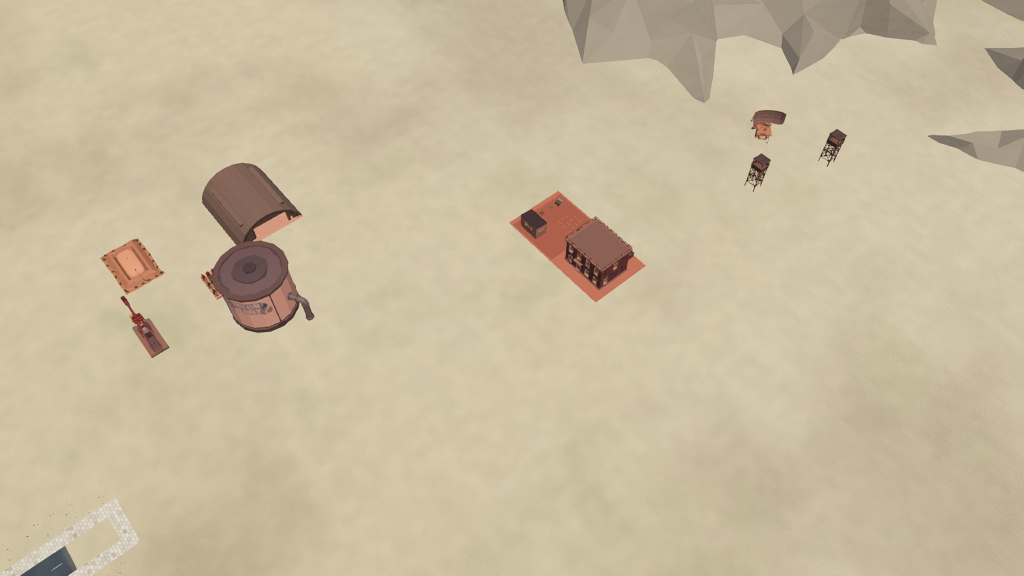
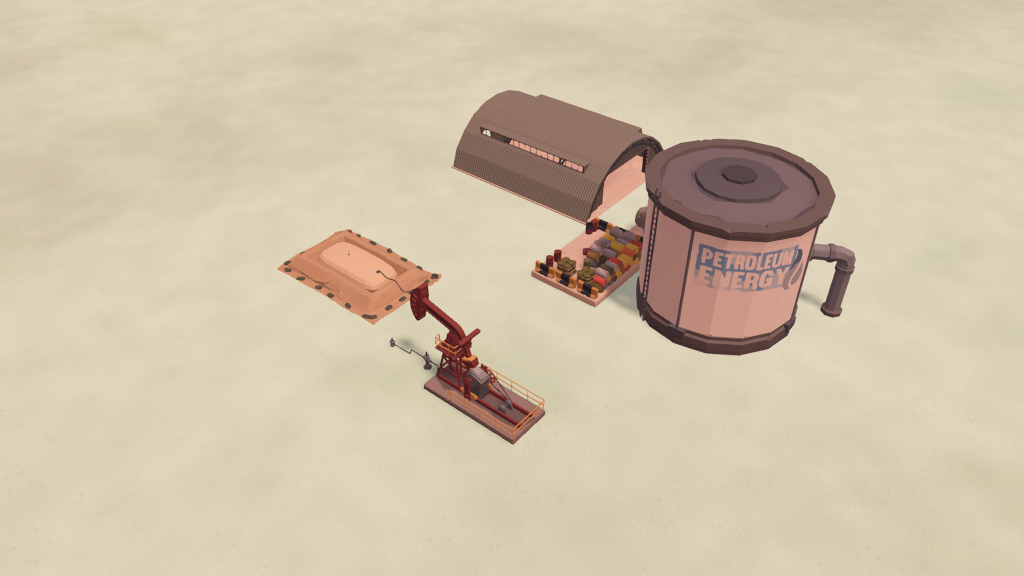
Reframe S002/S003/S025 cards as low close obliques on the tightest enemy structure group, longer settle, DB-plate grade; reset pinned camera matrices

diff --git a/Assets/Game/Scripts/Editor/SkirmishLibrary/SkirmishLibraryPlayCapture.cs b/Assets/Game/Scripts/Editor/SkirmishLibrary/SkirmishLibraryPlayCapture.cs
@@ -40,6 +40,10 @@ namespace Game.Editor
         private const int Supersample = 2;
         private const double ScenarioTimeoutSeconds = 240d;
         private const double SettleSeconds = 4d;
+        private const double CloseUpSettleSeconds = 12d;
+
+        // Cards reframed as a low, close oblique on the enemy base with its defenders in view.
+        private static bool IsCloseUp(string id) => id == "S002" || id == "S003" || id == "S025";
 
         private static int stage;
         private static double deadline;
@@ -232,7 +236,9 @@ namespace Game.Editor
                 {
                     // Preview cards show the authored enemy base, so lift the player's fog on it.
                     RevealSessionContacts(em);
-                    if (now - readyAt < SettleSeconds || ShaderUtil.anythingCompiling)
+                    // Close-up cards show the defenders, so let enemy units spawn and settle longer.
+                    double settle = IsCloseUp(id) ? CloseUpSettleSeconds : SettleSeconds;
+                    if (now - readyAt < settle || ShaderUtil.anythingCompiling)
                         return;
                     // Wait (bounded) for the session's structure visuals to finish binding.
                     if (VisualPending(em) && now - readyAt < SettleSeconds + 40d)
@@ -374,6 +380,22 @@ namespace Game.Editor
             return result.Count > 0 ? result : points;
         }
 
+        private const float KnotRadius = 55f;
+
+        private static Vector3 BestStructureKnot(List<Vector3> structures, Vector3 fallback)
+        {
+            Vector3 best = fallback;
+            int bestCount = -1;
+            foreach (Vector3 c in structures)
+            {
+                int n = 0;
+                foreach (Vector3 q in structures)
+                    if (new Vector2(q.x - c.x, q.z - c.z).magnitude <= KnotRadius) n++;
+                if (n > bestCount) { bestCount = n; best = c; }
+            }
+            return best;
+        }
+
         private static void Capture(string id, List<Vector3> enemyBuildings, List<Vector3> player, List<Vector3> enemyAll)
         {
             List<Vector3> enemySource = enemyBuildings.Count > 0 ? enemyBuildings : enemyAll;
@@ -387,10 +409,20 @@ namespace Game.Editor
             foreach (Vector3 p in enemyCluster) bounds.Encapsulate(p);
             float separation = new Vector2(enemy.x - home.x, enemy.z - home.z).magnitude;
             // S001 and S025 start close to the enemy; framing both bases made the enemy base tiny, so frame the enemy base alone.
-            bool enemyOnly = id == "S001" || id == "S025";
+            bool closeUp = IsCloseUp(id);
+            bool enemyOnly = closeUp || id == "S001";
             bool both = !enemyOnly && separation < 380f;
-            if (both)
-                foreach (Vector3 p in playerCluster) bounds.Encapsulate(p);
+            int closeUpCount = 0;
+            if (closeUp)
+            {
+                // These bases are sparse, so frame one tight group of visible structures (with any units beside it)
+                // instead of the whole spread. S003 keeps its own low side angle (-95 deg) so it never repeats S002's view.
+                Vector3 knot = BestStructureKnot(enemySource, enemy);
+                bounds = new Bounds(knot, Vector3.one * 16f);
+                foreach (Vector3 q in enemySource)
+                    if (new Vector2(q.x - knot.x, q.z - knot.z).magnitude <= KnotRadius) { bounds.Encapsulate(q); closeUpCount++; }
+                enemy = new Vector3(bounds.center.x, enemy.y, bounds.center.z);
+            }
 
             Vector3 back = home - enemy;
             back.y = 0f;
@@ -398,14 +430,16 @@ namespace Game.Editor
             back.Normalize();
             // S002 and S003 share the Desert Base enemy pads; give S003 (Field) its own low side angle.
             bool fieldAngle = id == "S003";
-            back = Quaternion.AngleAxis(fieldAngle ? -95f : 25f, Vector3.up) * back;
+            back = Quaternion.AngleAxis(fieldAngle ? -95f : id == "S002" ? 40f : 25f, Vector3.up) * back;
             const float fov = 40f;
-            float pitch = fieldAngle ? 36f : 55f;
+            float pitch = id == "S002" ? 38f : id == "S025" ? 36f : fieldAngle ? 35f : 55f;
             float aspect = CardWidth / (float)CardHeight;
             Vector3 size = bounds.size;
             float radius = Mathf.Max(size.x, size.z) * 0.5f + 25f;
             float fit = radius / Mathf.Tan(fov * 0.5f * Mathf.Deg2Rad) / Mathf.Min(1f, aspect * 0.75f);
-            float distance = Mathf.Clamp(fit * (enemyOnly ? 0.5f : 0.62f), enemyOnly ? 90f : 120f, 420f);
+            float distance = closeUp
+                ? Mathf.Clamp((Mathf.Max(size.x, size.z) * 0.5f + 10f) * 0.85f / Mathf.Tan(fov * 0.5f * Mathf.Deg2Rad), 40f, 95f)
+                : Mathf.Clamp(fit * (enemyOnly ? 0.5f : 0.62f), enemyOnly ? 90f : 120f, 420f);
             Vector3 look = both ? Vector3.Lerp(bounds.center, enemy, 0.35f) : enemyOnly ? bounds.center : enemy;
             look.y = Mathf.Min(enemy.y, home.y);
             Vector3 dir = (-back * Mathf.Cos(pitch * Mathf.Deg2Rad) + Vector3.down * Mathf.Sin(pitch * Mathf.Deg2Rad)).normalized;
@@ -449,6 +483,12 @@ namespace Game.Editor
                 camera.allowHDR = true;
                 camera.aspect = aspect;
                 camera.transform.SetPositionAndRotation(position, Quaternion.LookRotation(dir, Vector3.up));
+                // Match camera controllers can pin explicit view/projection matrices; drop them so the transform above is used.
+                camera.ResetWorldToCameraMatrix();
+                camera.ResetProjectionMatrix();
+                camera.ResetCullingMatrix();
+                Debug.Log("[SkirmishLibraryPlayCapture] camera=" + camera.name + " pos=" + Fmt(camera.transform.position) + " y=" + camera.transform.position.y.ToString("0", CultureInfo.InvariantCulture) +
+                          " viewPos=" + Fmt(camera.cameraToWorldMatrix.GetColumn(3)) + " stack=" + Camera.allCamerasCount);
                 Type dataType = Type.GetType(
                     "UnityEngine.Rendering.Universal.UniversalAdditionalCameraData, Unity.RenderPipelines.Universal.Runtime");
                 if (dataType != null)
@@ -457,16 +497,26 @@ namespace Game.Editor
                     dataType.GetProperty("renderPostProcessing")?.SetValue(data, true);
                 }
 
+                // Close-up cards use the same grade as the DB plate (daylight fill + Military_Demo_Gameplay volume).
+                GameObject gradeVolume = null;
+                if (closeUp)
+                {
+                    SkirmishS004CampaignLighting.ApplyDaylightFill();
+                    gradeVolume = SkirmishLibraryPreviewCapture.EnsureMatchVolume();
+                }
+
                 byte[] png = null;
                 for (int pass = 0; pass < 3; pass++)
                     png = RenderPng(camera);
+                if (gradeVolume != null)
+                    UnityEngine.Object.DestroyImmediate(gradeVolume);
                 string output = SkirmishLibraryPreviewAssets.PreviewPath(id);
                 string absolute = Path.Combine(Path.GetDirectoryName(Application.dataPath) ?? string.Empty, output);
                 Directory.CreateDirectory(Path.GetDirectoryName(absolute) ?? absolute);
                 File.WriteAllBytes(absolute, png);
                 Debug.Log("[SkirmishLibraryPlayCapture] card=" + id + " enemyBase=" + Fmt(enemy) + " playerStart=" + Fmt(home) +
                           " enemyBuildings=" + enemyBuildings.Count + " enemyEntities=" + enemyAll.Count +
-                          " playerEntities=" + player.Count + " framedBoth=" + (both ? 1 : 0) +
+                          " playerEntities=" + player.Count + " framedBoth=" + (both ? 1 : 0) + " closeUpPoints=" + closeUpCount +
                           " distance=" + distance.ToString("0", CultureInfo.InvariantCulture) +
                           " size=" + CardWidth + "x" + CardHeight + " output=" + output);
             }

diff --git a/Assets/Game/Scripts/Editor/SkirmishLibrary/SkirmishLibraryPreviewCapture.cs b/Assets/Game/Scripts/Editor/SkirmishLibrary/SkirmishLibraryPreviewCapture.cs
@@ -732,7 +732,7 @@ namespace Game.Editor
             }
         }
 
-        private static GameObject EnsureMatchVolume()
+        internal static GameObject EnsureMatchVolume()
         {
             ScriptableObject profile = AssetDatabase.LoadAssetAtPath<ScriptableObject>(MatchVolumeProfilePath);
             if (profile == null)
